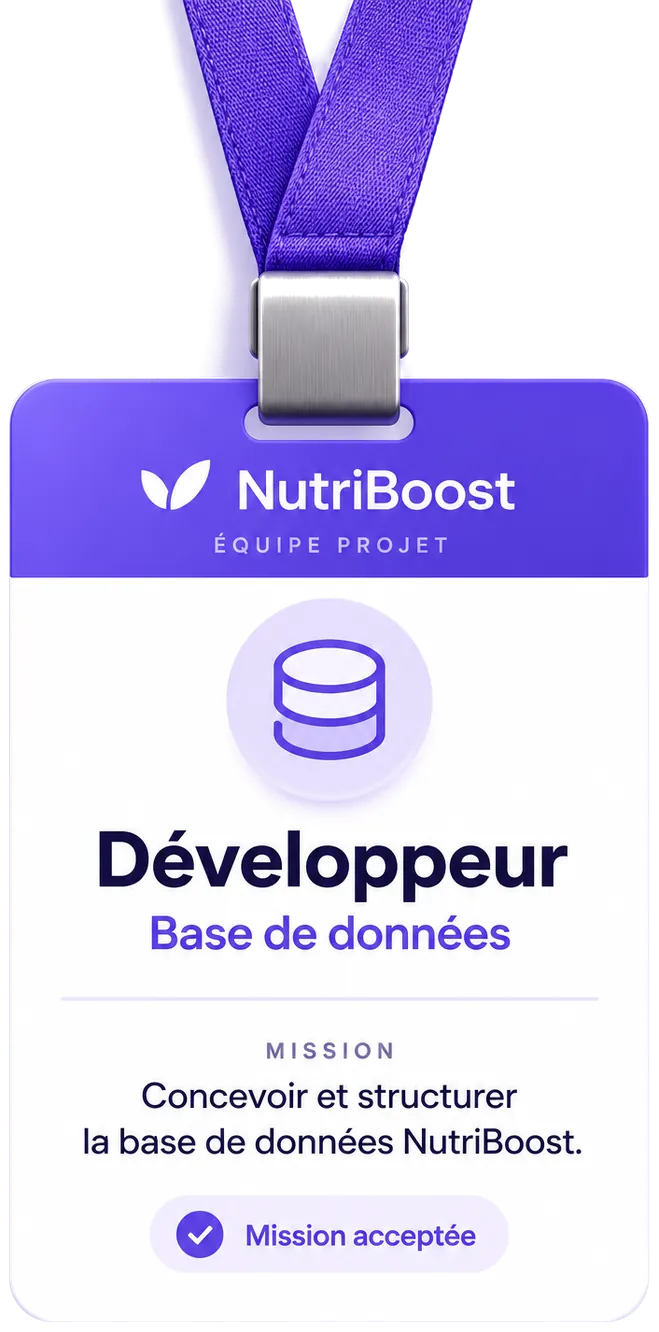
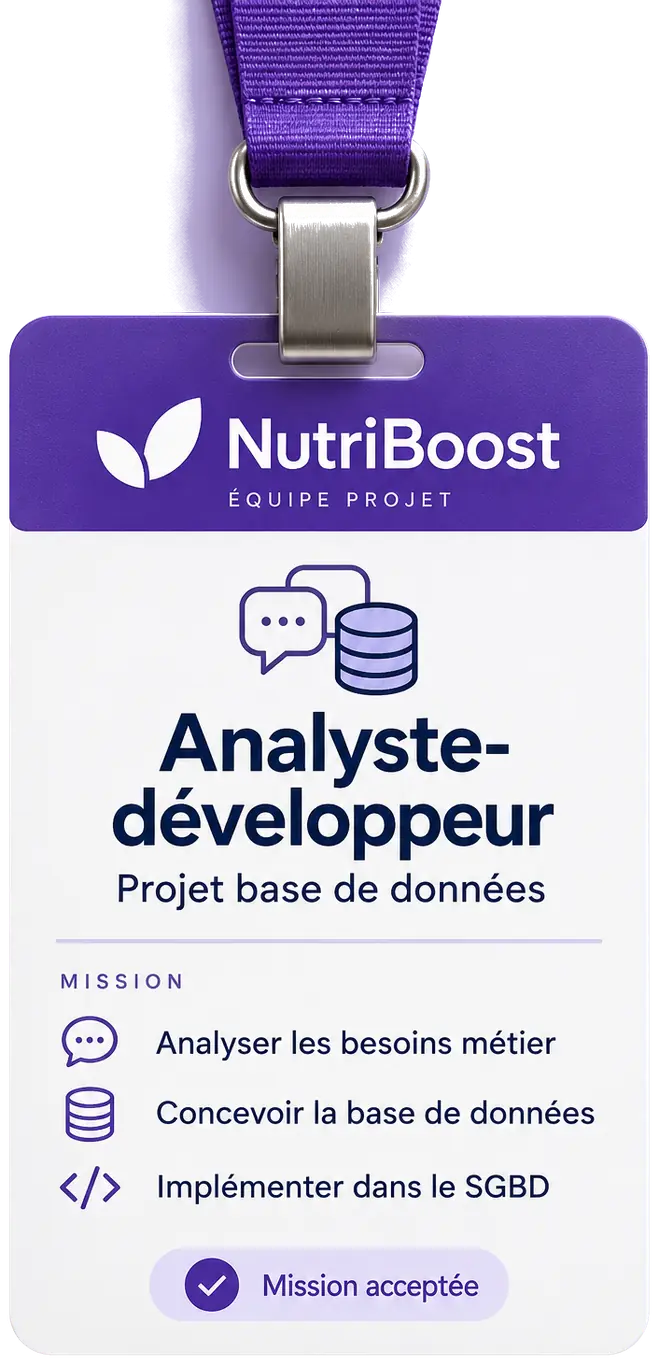
Ta mission : le badge « Analyste-développeur » d’Elisa
Elisa, 28 octobre, 13 h 36 : le nouveau badge (Analyste-développeur, projet base de données ; mission : analyser les
besoins métier, concevoir la base de données, implémenter dans le SGBD ; mission acceptée).

- badge-nutriboost.webp : la nouvelle image, détourée (fond lavande mesuré ligne par ligne), 75 Ko ; même chute, même
  balancement, même reflet ; l’anneau entoure « Mission acceptée » à sa nouvelle place ; le badge est un peu plus bas.
- La légende suit le badge : « Ta mission : analyser leurs besoins, concevoir la base de données et l’implémenter dans
  le SGBD. »

Contrôles ?check : aucun écart nouveau. Vidéo : 9 min 10. Cache v2104.

Claude-Session: https://claude.ai/code/session_0124BHns99Qr4xCgN9aAT8o4

diff --git a/assets/anim/bases-relationnelles.html b/assets/anim/bases-relationnelles.html
@@ -107,13 +107,13 @@
 #ml1 .sms-b{z-index:1}
 .acc{height:110px;padding:0 52px;border-radius:36px;display:flex;align-items:center;gap:18px;background:linear-gradient(135deg,#7C5CFF,#6A4DF4);color:#fff;font-size:42px;font-weight:800;white-space:nowrap;box-shadow:0 9px 0 #4B30CC}
 .acc .emo{font-size:44px}
-/* Le badge (l’image d’Elisa, 28 octobre, détourée) : sa sangle part du haut de l’écran ; un reflet le traverse (découpé à sa forme),
+/* Le badge (l’image d’Elisa, 28 octobre, 13 h 36, détourée : Analyste-développeur) : sa sangle part du haut de l’écran ; un reflet le traverse (découpé à sa forme),
    puis « Mission acceptée » s’entoure */
-.bdg{width:659px;height:1332px}
-.bdg img{display:block;width:659px;height:1332px;filter:drop-shadow(0 24px 30px rgba(53,35,140,.22))}
+.bdg{width:659px;height:1366px}
+.bdg img{display:block;width:659px;height:1366px;filter:drop-shadow(0 24px 30px rgba(53,35,140,.22))}
 .bdsh{position:absolute;inset:0;overflow:hidden;pointer-events:none;-webkit-mask:url(badge-nutriboost.webp) 0 0/100% 100% no-repeat;mask:url(badge-nutriboost.webp) 0 0/100% 100% no-repeat}
 .bdsh i{position:absolute;left:0;top:0;width:170px;height:100%;background:linear-gradient(90deg,rgba(255,255,255,0),rgba(255,255,255,.75),rgba(255,255,255,0))}
-.bdok{position:absolute;left:146px;top:1192px;width:366px;height:84px;border-radius:999px;box-shadow:0 0 0 6px rgba(124,92,255,.6),0 0 30px rgba(124,92,255,.5);opacity:0}
+.bdok{position:absolute;left:146px;top:1244px;width:365px;height:80px;border-radius:999px;box-shadow:0 0 0 6px rgba(124,92,255,.6),0 0 30px rgba(124,92,255,.5);opacity:0}
 /* Le halo : des rayons qui tournent doucement derrière le badge, le temps de la bienvenue */
 .bdray{width:780px;height:780px;border-radius:50%;background:repeating-conic-gradient(rgba(124,92,255,.13) 0 9deg,rgba(124,92,255,0) 9deg 18deg);-webkit-mask:radial-gradient(circle,#000 22%,transparent 68%);mask:radial-gradient(circle,#000 22%,transparent 68%)}
 
@@ -427,7 +427,7 @@
     <div class="abs acc" id="acc"><span class="emo">🤝</span>J’accepte la mission</div>
     <i class="abs bdray" id="bdray"></i>
     <div class="abs bdg" id="bdg">
-      <img src="badge-nutriboost.webp" alt="Badge NutriBoost, équipe projet : Développeur, base de données. Mission : concevoir et structurer la base de données NutriBoost. Mission acceptée." draggable="false">
+      <img src="badge-nutriboost.webp" alt="Badge NutriBoost, équipe projet : Analyste-développeur, projet base de données. Mission : analyser les besoins métier, concevoir la base de données, implémenter dans le SGBD. Mission acceptée." draggable="false">
       <div class="bdsh"><i id="bdshi"></i></div>
       <i class="bdok" id="bdok"></i>
     </div>
@@ -656,7 +656,7 @@ const CAPTIONS = [
   // Ta mission : Camille Roux te recrute ; la légende s’efface le temps de son message, puis revient avec ton badge
   [83.8, 87.2,   "Camille Roux, responsable<br>des opérations, t’écrit."],
   [94.1, 97.3,   "Bienvenue dans l’équipe NutriBoost !"],
-  [97.4, 101.6,  "Ta mission : concevoir et structurer<br>la <b>base de données</b> de NutriBoost."],
+  [97.4, 101.6,  "Ta mission : analyser leurs besoins,<br>concevoir la <b>base de données</b><br>et l’implémenter dans le SGBD."],
   [102.7, 108.7, "La solution : répartir les informations dans <b>trois tables</b> : clients, produits et commandes."],
   [108.8, 113.2, "Chaque table regroupe les données d’un <b>même sujet</b>."],
   [113.3, 119.2, "Une <b>table</b> organise les données en lignes et en colonnes, comme dans un tableau Excel."],
@@ -1089,7 +1089,7 @@ function build(){
   $('#ml1').style.top = Math.round((236 + 1460) / 2 - (CONV_H + 44 + accH) / 2) + 'px';
   const CONV = R($('#ml1 .sms-v')), CONV_BODY = CONV_H - $('#ml1 .sms-h').offsetHeight;
   Object.assign($('#acc').style, {left: Math.round((1080 - $('#acc').offsetWidth) / 2) + 'px', top: Math.round(CONV.y + CONV.h + 44) + 'px'});
-  const BDG_TOP = -20, BDG_CARD = [378, 1322];   // le haut de l’image (au-dessus de l’écran), puis le haut et le bas de sa carte, dans l’image
+  const BDG_TOP = -10, BDG_CARD = [315, 1354];   // le haut de l’image (au-dessus de l’écran), puis le haut et le bas de sa carte, dans l’image
   Object.assign($('#bdg').style, {left: Math.round((1080 - 659) / 2) + 'px', top: BDG_TOP + 'px'});
   Object.assign($('#bdray').style, {left: Math.round(540 - 390) + 'px', top: Math.round(BDG_TOP + (BDG_CARD[0] + BDG_CARD[1]) / 2 - 390) + 'px'});
   let te;

diff --git a/index.html b/index.html
@@ -8231,7 +8231,7 @@ guide({ id:0, titre:"Les bases de données relationnelles", résumé:"Tables, cl
      La vidéo part du fichier Excel de NutriBoost, une ligne par commande : il s’alourdit, plusieurs personnes le modifient et les
      erreurs arrivent (deux e-mails pour la cliente Sophie Martin). Ta mission : Camille Roux, responsable des opérations, t’écrit par SMS
      pour te recruter (les messages d’Elisa) ; l’élève touche son message, puis « J’accepte la mission », et reçoit son badge
-     NutriBoost (Développeur, base de données ; l’image d’Elisa).
+     NutriBoost (Analyste-développeur, projet base de données ; l’image d’Elisa).
      Les informations sont réparties dans trois tables (clients, produits,
      commandes), chacune sur un même sujet. Qu’est-ce qu’une base de données ? Un ensemble d’informations organisées pour les
      retrouver et les mettre à jour facilement (montré en animation : des informations en vrac rejoignent leur case, la recherche
@@ -8246,7 +8246,7 @@ guide({ id:0, titre:"Les bases de données relationnelles", résumé:"Tables, cl
      ni exercice ni quiz. Cinq moments « À toi » ; la leçon se valide avec 4 exercices réussis du premier coup sur 5 (seuil:4, un
      raté au plus, comme tous les cours de 3 à 5 moments), sinon on rejoue les moments ratés. */
   leconSeule:true,
-  video:{anim:'assets/anim/bases-relationnelles.html?app&embed',thumb:'assets/anim/bases-relationnelles-thumb.webp',duree:'9 min 08',moments:5,seuil:4},
+  video:{anim:'assets/anim/bases-relationnelles.html?app&embed',thumb:'assets/anim/bases-relationnelles-thumb.webp',duree:'9 min 10',moments:5,seuil:4},
   reflex:[
     {recap:[
       ["🗂","Une <b>table</b> range un sujet : <code>clients</code>, <code>produits</code>, <code>commandes</code>.","Ses colonnes sont des caractéristiques, ses lignes des enregistrements."],
@@ -25489,7 +25489,7 @@ boot();
 if('serviceWorker' in navigator && location.protocol.startsWith('http')){
   /* Même identifiant que CACHE dans sw.js : le paramètre force le navigateur
      à retélécharger le worker quand on déploie, sans attendre l’expiration. */
-  const SW_CACHE='requete-2026-10-12-ludique-v2103';
+  const SW_CACHE='requete-2026-10-12-ludique-v2104';
   /* Exposée pour l’indicateur « Version » de la page Mon compte. */
   window.APP_VERSION=SW_CACHE;
   window.addEventListener('load',()=>{

diff --git a/sw.js b/sw.js
@@ -14,7 +14,7 @@
   CACHE change à chaque déploiement des ressources. APP_VERSION concerne
   les données utilisateur : ne pas le modifier pour un rafraîchissement. */
 
-const CACHE = 'requete-2026-10-12-ludique-v2103';
+const CACHE = 'requete-2026-10-12-ludique-v2104';
 
 const PRECACHE = [
   './',
